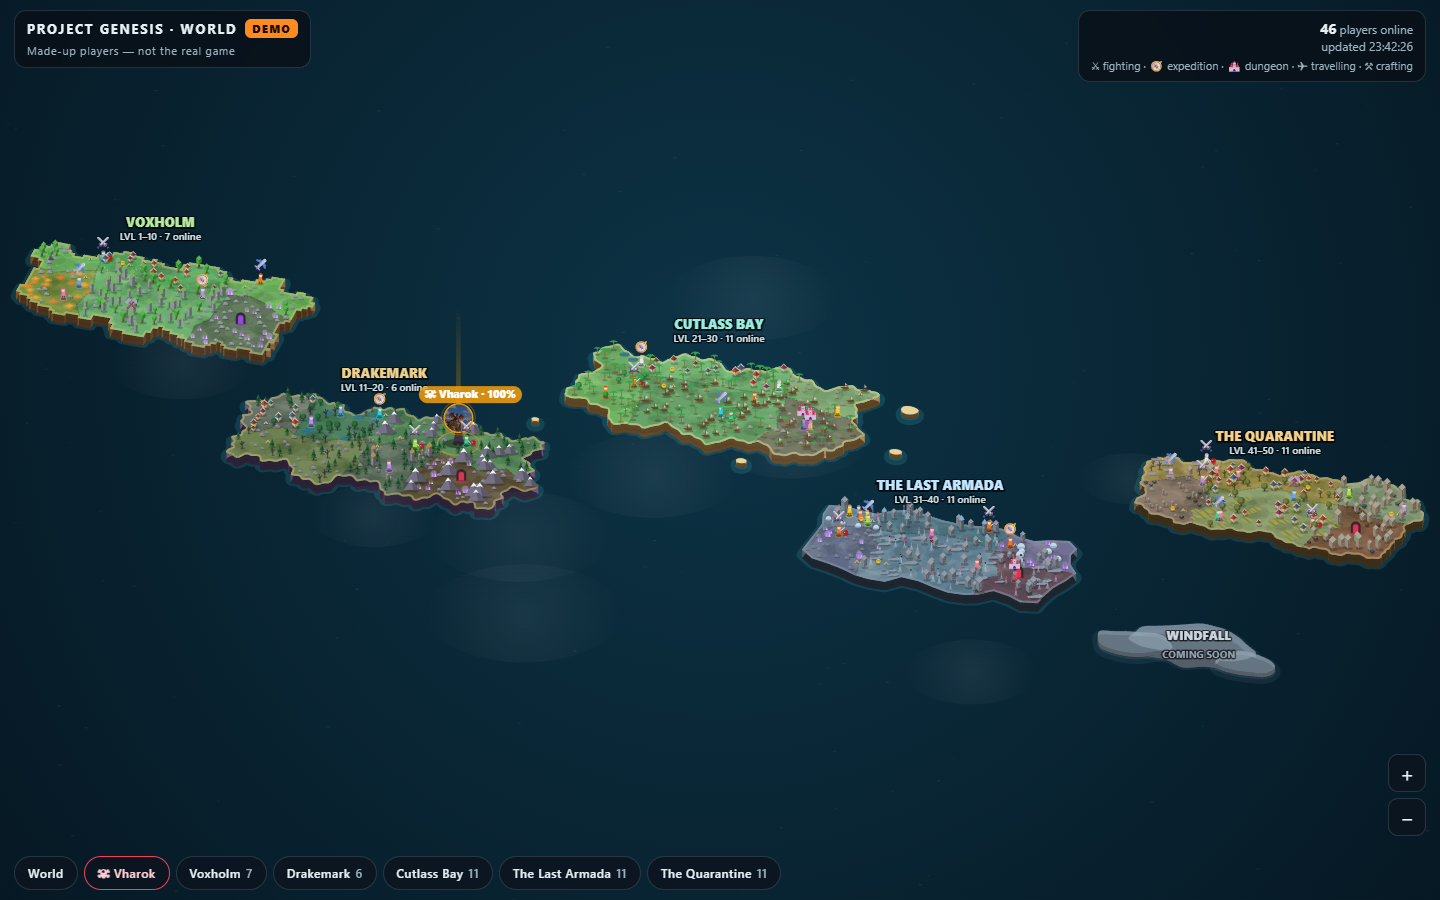
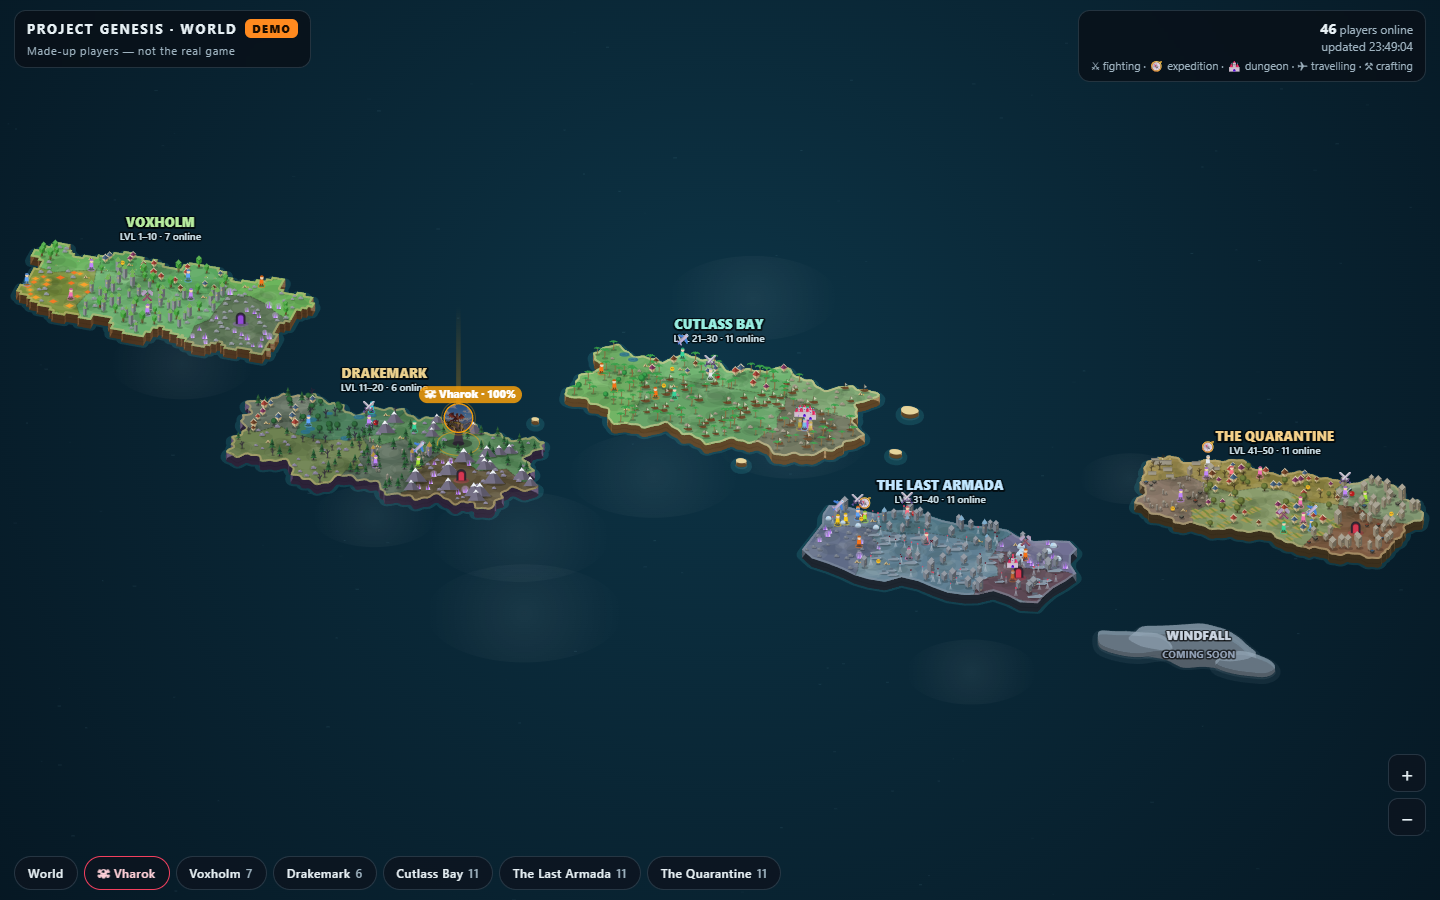
Genesis-varlden: spelarruta med info och Inspect (utrustning) vid tryck, info-falt i kontraktet + DEMO

diff --git a/genesis-world.html b/genesis-world.html
@@ -5,6 +5,7 @@
 <meta name="viewport" content="width=device-width,initial-scale=1,viewport-fit=cover">
 <meta name="robots" content="noindex">
 <title>Genesis World</title>
+<link rel="icon" href="data:,">
 <!--
   GENESIS-VARLDEN  [TILLAGT genesis-world]
   Fristaende, skrivskyddad askadarvy av Project Genesis. Ror aldrig spelet: inga anrop till spelets
@@ -29,7 +30,19 @@
        "region":"cutlassbay", "zon":"Wreck Reef",     // zon = zonnamn eller index 0-5 (5 = regionens dungeon)
        "aktivitet":"idle",                            // idle | strid | expedition | dungeon | resa | yrke
        "mal":{"region":"novacommand","zon":"The Dock Ring"},   // bara vid resa, annars null
-       "framsteg":0.4}                                // valfri, 0-1 hur langt resan kommit
+       "framsteg":0.4,                                // valfri, 0-1 hur langt resan kommit
+       "info":{                                       // valfri: visas i spelarrutan nar man trycker pa figuren
+         "klass":"warden",                            // breaker | prospector | fabricator | warden | runner
+         "paragon":12, "titel":"the Unbroken",
+         "guild":{"namn":"Iron Owls","tag":"OWL"},    // eller null
+         "gs":2256,                                   // gear score (snitt per plats, som i spelet)
+         "gear":[                                     // det spelaren bar, plats = karaktarsbladets nummer
+           {"slot":0, "key":"phase_cap", "rarity":3, "level":44}
+           // slot 0 huvud, 1 brost, 2 ben, 3 handskar, 4 fotter, 5 vapen, 6 hals, 7 balte, 8 ring,
+           // 9 offhand, 11 transport, 12 ring 2, 13 relik, 14 karaktarssten.  rarity 0-5 = Common..Mythic
+           // valfritt per pjas: "namn" och "bild" (assets/...webp). Saknas de slas nyckeln upp i spelets
+           // katalog (genesis-catalog i index.html), som hamtas forsta gangen en ruta med utrustning oppnas.
+         ]}}
     ],
     "helpare": [                                      // valfri: hjalpare ute pa expedition
       {"namn":"Pip", "agare":"Whippen", "region":"drakemark", "zon":"Troll Mire"}
@@ -83,6 +96,26 @@
   #card .rows span{color:var(--ink2)}
   #card .x{position:absolute;top:6px;right:8px;z-index:2;background:rgba(0,0,0,.45);color:#fff;border:0;border-radius:8px;
     width:28px;height:28px;font-size:16px;cursor:pointer}
+  #card.pl{max-height:calc(100vh - 150px);max-height:calc(100dvh - 150px);overflow-y:auto;overscroll-behavior:contain}
+  .pc-title{font-size:11px;color:#ffc542;letter-spacing:.05em;position:relative;z-index:1;margin-top:-40px;margin-bottom:22px;text-shadow:0 1px 3px #000}
+  .pc-meta{display:flex;flex-wrap:wrap;gap:3px 10px;font-size:12px;color:var(--ink2);margin-top:6px}
+  .pc-meta b{color:var(--ink);font-weight:700}
+  .pc-cls{display:inline-block;width:8px;height:8px;border-radius:50%;margin-right:5px;vertical-align:0}
+  .pc-btn{margin-top:10px;width:100%;background:rgba(45,212,191,.12);border:1px solid rgba(45,212,191,.45);color:#bff7ee;border-radius:9px;
+    padding:7px;font-size:12px;font-weight:600;line-height:1;letter-spacing:.06em;cursor:pointer;font-family:inherit}
+  .doll{display:grid;grid-template-columns:auto 1fr auto;gap:6px;margin-top:10px;align-items:start}
+  .dcol{display:flex;flex-direction:column;gap:5px}
+  .dmid{display:flex;flex-direction:column;align-items:center;gap:4px}
+  .dmid .fig{width:100%;max-width:120px;height:178px;object-fit:contain;filter:drop-shadow(0 4px 8px rgba(0,0,0,.6))}
+  .drow{display:flex;justify-content:center;gap:5px;margin-top:6px}
+  .slot{width:44px;height:44px;border-radius:9px;background:#0b131c;border:1.5px solid rgba(255,255,255,.1);position:relative;cursor:pointer;padding:0;
+    display:block;overflow:hidden;font-family:inherit}
+  .slot .sbg{position:absolute;inset:6px;background:center/contain no-repeat;opacity:.22}
+  .slot.has{border-color:var(--rc);box-shadow:inset 0 0 12px -3px var(--rc)}
+  .slot.has img{position:absolute;inset:3px;width:calc(100% - 6px);height:calc(100% - 6px);object-fit:contain}
+  .slot.sel{outline:2px solid #fff;outline-offset:1px}
+  .itemline{min-height:30px;font-size:12px;margin-top:8px;text-align:center;line-height:1.35}
+  .itemline small{display:block;color:var(--ink2);font-size:11px}
   #chips{display:flex;gap:6px;overflow-x:auto;padding:0 14px;scrollbar-width:none;-webkit-overflow-scrolling:touch}
   #chips::-webkit-scrollbar{display:none}
   .chip{flex:0 0 auto;background:var(--chip);color:var(--ink);border:1px solid var(--line);border-radius:999px;
@@ -105,8 +138,12 @@
     #zoom{display:none}
     .wide{display:none}
     #stats div{white-space:nowrap}
-    #card .rows{columns:2;column-gap:12px;font-size:11px}
+    #card:not(.pl) .rows{columns:2;column-gap:12px;font-size:11px}
     #card .hd{height:52px}
+    #card{max-width:calc(100vw - 28px);width:calc(100vw - 28px)}
+    #card.pl{max-height:calc(100vh - 190px);max-height:calc(100dvh - 190px)}
+    .slot{width:40px;height:40px}
+    .dmid .fig{height:150px}
   }
 </style>
 </head>
@@ -475,6 +512,33 @@ function clampCam(){ const m = 200; cam.x = clamp(cam.x, WB.x0 - m, WB.x1 + m); 
 const ents = new Map();      // namn -> spelare
 const helps = new Map();     // hjalpare
 let boss = null, bossImg = {}, data = null, lastSig = '', selected = null, selRegion = null;
+/* Spelarinfo fran kontraktet tvattas till enkla varden; text visas alltid som text (aldrig som HTML). */
+const CLASS_TXT = {breaker: 'Breaker', prospector: 'Prospector', fabricator: 'Fabricator', warden: 'Warden', runner: 'Runner'};
+const CLASS_COL = {breaker: '#38e8ff', prospector: '#ffc542', fabricator: '#38bdf8', warden: '#4cd97b', runner: '#a78bfa'};
+const CLASS_FIG = {breaker: 'cyborg', prospector: 'blockman', fabricator: 'hoodie-man', warden: 'elf', runner: 'monkey-pirate'};   // som CLASS_FIGURE i index.html
+const RAR = [['Common', '#ffffff'], ['Uncommon', '#1eff5a'], ['Rare', '#38a8ff'], ['Epic', '#a45cff'], ['Legendary', '#ffc542'], ['Mythic', '#ff3b3b']];
+const str = (v, n) => (typeof v === 'string' || typeof v === 'number') ? String(v).trim().slice(0, n) : '';
+const okPath = v => (typeof v === 'string' && /^assets\/[A-Za-z0-9_\-\/.]+\.(webp|png)$/.test(v) && v.indexOf('..') < 0) ? v : '';
+function cleanInfo(i){
+  if (!i || typeof i !== 'object') return null;
+  const g = i.guild, gear = Array.isArray(i.gear) ? i.gear : [];
+  return {klass: str(i.klass, 20).toLowerCase(), paragon: Math.max(0, +i.paragon || 0), titel: str(i.titel, 40),
+    guild: g && typeof g === 'object' ? {namn: str(g.namn, 30), tag: str(g.tag, 6)} : (str(g, 30) ? {namn: str(g, 30), tag: ''} : null),
+    gs: (i.gs != null && isFinite(+i.gs)) ? Math.round(+i.gs) : null,
+    gear: gear.slice(0, 16).filter(x => x && isFinite(+x.slot)).map(x => ({slot: +x.slot | 0, key: str(x.key, 60), namn: str(x.namn, 60), bild: okPath(x.bild),
+      rarity: clamp(+x.rarity | 0, 0, 5), level: (x.level != null && isFinite(+x.level)) ? +x.level | 0 : null}))};
+}
+/* Spelets katalog (namn + bild per pjas) ligger i index.html. Den hamtas EN gang, och bara om en pjas saknar namn/bild. */
+let CATALOG = null, catalogP = null;
+function loadCatalog(){
+  if (!catalogP) catalogP = fetch('index.html', {cache: 'force-cache'}).then(r => r.text()).then(t => {
+    const m = t.match(/<script type="application\/json" id="genesis-catalog">([\s\S]*?)<\/script>/); CATALOG = m ? JSON.parse(m[1]) : {items: {}};
+  }).catch(() => { CATALOG = {items: {}}; });
+  return catalogP; }
+function itemLook(g){
+  const D = CATALOG && CATALOG.items && CATALOG.items[g.key];
+  const bild = g.bild || (D ? (Array.isArray(D.pr) ? okPath(D.pr[g.rarity] || D.pr[0]) : okPath(D.a)) : '');
+  return {namn: g.namn || (D && D.n) || g.key || '?', bild}; }
 const PAL = ['#f97316', '#22d3ee', '#a3e635', '#f472b6', '#facc15', '#60a5fa', '#c084fc', '#34d399', '#fb7185', '#e2e8f0'];
 function zoneOf(rid, zon){ const R = REG_BY[rid]; if (!R || R.locked) return null;
   if (typeof zon === 'number' && R.zones[zon]) return R.zones[zon];
@@ -500,7 +564,7 @@ function applyPlayer(e, s){
   let z = zoneOf(s.region, s.zon); if (!z) z = R.zones[hash(s.namn) % 5];
   const akt = ['idle', 'strid', 'expedition', 'dungeon', 'resa', 'yrke'].indexOf(s.aktivitet) >= 0 ? s.aktivitet : 'idle';
   const malZ = (akt === 'resa' && s.mal) ? zoneOf(s.mal.region, s.mal.zon) || (REG_BY[s.mal.region] && !REG_BY[s.mal.region].locked ? REG_BY[s.mal.region].zones[0] : null) : null;
-  e.niva = +s.niva || 0; e.namn = String(s.namn).slice(0, 24);
+  e.niva = +s.niva || 0; e.namn = String(s.namn).slice(0, 24); e.info = cleanInfo(s.info);
   const prevZ = e.z, prevAkt = e.akt, prevMal = e.malZ;
   e.R = R; e.akt = akt; e.malZ = malZ; e.framsteg = (typeof s.framsteg === 'number') ? clamp(s.framsteg, 0, 1) : null;
   if (!prevZ){ e.z = z; const p = spotFor(e); e.x = p.x; e.y = p.y; e.tx = p.x; e.ty = p.y; e.wait = Math.random() * 3; return true; }
@@ -803,16 +867,69 @@ function renderChips(){
   LAND.forEach(R => add(R.namn, counts[R.id] || 0, () => { selected = null; selRegion = R.id; renderCard(); focusRegion(R); }));
 }
 const AKT_TXT = {idle: 'Exploring', strid: 'Fighting', expedition: 'On an expedition', dungeon: 'In a dungeon', resa: 'Travelling', yrke: 'Crafting'};
+/* SPELARRUTAN: namn, niva, klass, guild, gear score, vad spelaren gor - och Inspect (utrustningen som i spelets profilkort).
+   Bara lasning: knapparna har oppnar och stanger rutan, inget annat. */
+let cardSig = '', inspOpen = innerWidth >= 640, inspSlot = null;
+const DOLL = {left: [[0, 'head', 'Head'], [6, 'neck', 'Neck'], [1, 'chest', 'Chest'], [2, 'legs', 'Legs'], [4, 'feet', 'Boots']],
+  right: [[3, 'hands', 'Hands'], [7, 'waist', 'Waist'], [8, 'ring', 'Ring'], [12, 'ring', 'Ring'], [13, 'relic', 'Relic']],
+  under: [[5, 'weapon', 'Weapon'], [11, 'transport', 'Transport'], [9, 'offhand', 'Off-hand']]};   // samma docka som INSP_COLS i index.html
+function el(tag, cls, txt){ const d = document.createElement(tag); if (cls) d.className = cls; if (txt != null) d.textContent = txt; return d; }
+function renderPlayerCard(e){
+  const card = $('card'), hd = $('cardHd'), T = $('cardT'), S = $('cardS'), R0 = $('cardR'), inf = e.info;
+  const doing = e.fly && e.fly.hint !== 'resa' ? 'Travelling' : AKT_TXT[e.akt];
+  const sig = JSON.stringify([selected, e.niva, inf, doing, e.z.namn, e.malZ && e.malZ.namn, inspOpen, inspSlot, !!CATALOG]);
+  if (sig === cardSig && card.classList.contains('on')) return; cardSig = sig;
+  card.className = 'on pl'; hd.style.backgroundImage = 'url(assets/bg/region/' + e.R.id + '.webp)';
+  T.textContent = e.namn; S.textContent = ''; R0.textContent = '';
+  const old = card.querySelector('.pc-title'); if (old) old.remove();
+  if (inf && inf.titel){ const t = el('div', 'pc-title', inf.titel); T.parentNode.insertBefore(t, T); }
+  const meta = el('div', 'pc-meta'); S.appendChild(meta);
+  const add = (lab, val, dot) => { const sp = el('span'); if (dot){ const i = el('i', 'pc-cls'); i.style.background = dot; sp.appendChild(i); }
+    if (lab) sp.appendChild(document.createTextNode(lab + ' ')); sp.appendChild(el('b', null, val)); meta.appendChild(sp); };
+  add('Level', String(e.niva || '?')); if (inf && inf.paragon) add('Paragon', String(inf.paragon));
+  if (inf && inf.klass) add('', CLASS_TXT[inf.klass] || inf.klass, CLASS_COL[inf.klass] || '#9fb3c0');
+  if (inf && inf.gs != null) add('Gear score', inf.gs.toLocaleString('en-US'));
+  if (inf && inf.guild && inf.guild.namn) add('⚑', inf.guild.namn + (inf.guild.tag ? ' [' + inf.guild.tag + ']' : ''));
+  const row = (a, b) => { const d = el('div'); d.appendChild(el('span', null, a + ' ')); d.appendChild(document.createTextNode(b)); R0.appendChild(d); };
+  row('Doing:', doing); row('Where:', e.R.namn + ' · ' + e.z.namn);
+  if (e.akt === 'resa' && e.malZ) row('Heading to:', e.malZ.R.namn + ' · ' + e.malZ.namn);
+  if (!inf || !inf.gear) return;
+  const btn = el('button', 'pc-btn', inspOpen ? 'Hide gear ▴' : 'Inspect gear ▾'); R0.appendChild(btn);
+  btn.onclick = () => { inspOpen = !inspOpen; inspSlot = null; renderCard(); };
+  if (!inspOpen) return;
+  if (!CATALOG && inf.gear.some(g => !g.bild || !g.namn)) loadCatalog().then(() => { cardSig = ''; renderCard(); });
+  const bar = {}; inf.gear.forEach(g => { bar[g.slot] = g; });
+  const slotEl = (sl, art, namn) => { const b = el('button', 'slot'); b.setAttribute('aria-label', namn); const g = bar[sl];
+    const bg = el('i', 'sbg'); bg.style.backgroundImage = 'url(assets/slots/slot_' + art + '.webp)';
+    if (inspSlot === sl) b.classList.add('sel');
+    if (!g){ b.appendChild(bg); b.onclick = () => { inspSlot = inspSlot === sl ? null : sl; renderCard(); }; return b; }
+    const L = itemLook(g); b.classList.add('has'); b.style.setProperty('--rc', RAR[g.rarity][1]);
+    if (L.bild){ const im = el('img'); im.src = L.bild; im.alt = ''; im.draggable = false; im.onerror = () => { im.remove(); b.appendChild(bg); }; b.appendChild(im); } else b.appendChild(bg);
+    b.onclick = () => { inspSlot = inspSlot === sl ? null : sl; renderCard(); }; return b; };
+  const doll = el('div', 'doll'), col = list => { const c = el('div', 'dcol'); list.forEach(x => c.appendChild(slotEl(x[0], x[1], x[2]))); return c; };
+  doll.appendChild(col(DOLL.left));
+  const mid = el('div', 'dmid'); mid.appendChild(slotEl(14, 'gem', 'Character Gem'));
+  const fig = CLASS_FIG[inf.klass];
+  if (fig){ let n = 0; [[0, 16], [1, 8], [2, 4], [3, 2], [4, 1]].forEach(b => { if (bar[b[0]]) n |= b[1]; });   // som FIGURE_BITS i index.html
+    const im = el('img', 'fig'); im.alt = ''; im.draggable = false; im.src = 'assets/character/' + fig + '/' + String(n).padStart(2, '0') + '.webp'; im.onerror = () => im.remove(); mid.appendChild(im); }
+  doll.appendChild(mid); doll.appendChild(col(DOLL.right)); R0.appendChild(doll);
+  const under = el('div', 'drow'); DOLL.under.forEach(x => under.appendChild(slotEl(x[0], x[1], x[2]))); R0.appendChild(under);
+  const line = el('div', 'itemline');
+  const all = DOLL.left.concat(DOLL.right, DOLL.under, [[14, 'gem', 'Character Gem']]), pick = all.find(x => x[0] === inspSlot);
+  if (pick){ const g = bar[pick[0]];
+    if (g){ const L = itemLook(g), b = el('b', null, L.namn); b.style.color = RAR[g.rarity][1]; line.appendChild(b);
+      line.appendChild(el('small', null, pick[2] + ' · ' + RAR[g.rarity][0] + (g.level != null ? ' · ilvl ' + g.level : ''))); }
+    else line.appendChild(el('small', null, pick[2] + ' · empty')); }
+  else line.appendChild(el('small', null, inf.gear.length ? 'Tap a piece to see what it is' : 'Wearing nothing'));
+  R0.appendChild(line);
+}
 function renderCard(){
   const card = $('card'), hd = $('cardHd'), T = $('cardT'), S = $('cardS'), R0 = $('cardR');
   const e = selected && ents.get(selected);
-  if (e){ card.className = 'on'; hd.style.backgroundImage = 'url(assets/bg/region/' + e.R.id + '.webp)';
-    T.textContent = e.namn; S.textContent = 'Level ' + (e.niva || '?') + ' · ' + (e.fly && e.fly.hint !== 'resa' ? 'Travelling' : AKT_TXT[e.akt]);
-    R0.textContent = ''; const row = (a, b) => { const d = document.createElement('div'); const s = document.createElement('span'); s.textContent = a + ' '; d.appendChild(s); d.appendChild(document.createTextNode(b)); R0.appendChild(d); };
-    row('Where:', e.R.namn + ' · ' + e.z.namn);
-    if (e.akt === 'resa' && e.malZ) row('Heading to:', e.malZ.R.namn + ' · ' + e.malZ.namn);
-    return; }
+  if (e){ renderPlayerCard(e); return; }
+  card.classList.remove('pl'); cardSig = '';
   const R = selRegion && REG_BY[selRegion];
+  { const old = card.querySelector('.pc-title'); if (old) old.remove(); }
   if (R && !R.locked){ card.className = 'on'; hd.style.backgroundImage = 'url(assets/bg/region/' + R.id + '.webp)';
     T.textContent = R.namn; const zc = {}; let n = 0; ents.forEach(x => { if (x.R === R && !x.gone){ zc[x.z.i] = (zc[x.z.i] || 0) + 1; n++; } });
     S.textContent = 'Level ' + R.band + ' · ' + n + ' online'; R0.textContent = '';
@@ -844,7 +961,7 @@ function tap(sx, sy){
   const now = performance.now(), dbl = now - lastTap < 320; lastTap = now;
   let best = null, bd = 22; const k = figK(cam.z);
   ents.forEach((e, key) => { const q = toScreen(P(e.x, e.y, (e.h || 0) + 8 * k)); const d = Math.hypot(q.x - sx, q.y - sy); if (d < bd){ bd = d; best = key; } });
-  if (best){ selected = best; selRegion = null; renderCard(); return; }
+  if (best){ if (selected !== best) inspSlot = null; selected = best; selRegion = null; renderCard(); return; }
   if (boss){ const q = toScreen(P(boss.x, boss.y, 60)); if (Math.hypot(q.x - sx, q.y - sy) < Math.max(30, 70 * cam.z)){ const p = P(boss.x, boss.y, 0); flyTo({x: p.x, y: p.y - 60, z: Math.max(cam.z, 1.6)}); return; } }
   const R = regionAt(sx, sy);
   selected = null; selRegion = R ? R.id : null; renderCard();
@@ -874,6 +991,20 @@ const DEMO = (() => {
   const pl = [...names].map((n, i) => { const ri = Math.min(4, Math.floor(Math.pow(r(), 1.3) * 5)), R = REG_BY[regs[ri]];
     return {namn: n, niva: ri * 10 + 1 + Math.floor(r() * 10), region: R.id, zon: R.zoner[Math.floor(r() * 5)], aktivitet: 'idle', mal: null}; });
   const ACT = ['idle', 'idle', 'idle', 'strid', 'strid', 'yrke', 'expedition', 'dungeon', 'resa'];
+  /* pahittad spelarinfo: riktiga pjasnycklar ur spelets katalog sa bilderna syns, men namnen ar pahittade */
+  const DK = {0: ['runners_cap', 'phase_cap', 'sig_lamphelm', 'sigv_bulkhelm'], 1: ['runners_vest', 'phase_vest', 'sig_rockplate', 'sigv_plating'],
+    2: ['runners_trousers', 'phase_trousers', 'sig_seamguards', 'sigv_hullwalkers'], 3: ['runners_gloves', 'phase_gloves', 'sig_grippers', 'sigv_breachers'],
+    4: ['runners_boots', 'phase_boots', 'sig_tunnelstompers', 'sigv_maglocks'], 5: ['runners_dagger', 'voidsteel_blade', 'sigw_talon', 'sigv_blade'],
+    6: ['salvage_neck', 'genesis_neck', 'sigu_charm', 'neck_runners_sleeve'], 7: ['salvage_waist', 'genesis_waist', 'sigv_belt', 'waist_runners_belt'],
+    8: ['salvage_ring', 'voidsteel_band', 'ring_copper_band', 'sigu_band'], 9: ['salvage_offhand', 'genesis_offhand', 'sigv_coil', 'offhand_arc_torch'],
+    11: ['salvage_transport', 'genesis_transport', 'sigv_pod', 'transport_sky_lance'], 12: ['salvage_ring', 'voidsteel_band', 'ring_copper_band', 'sigu_band'],
+    13: ['salvage_relic', 'sigu_colors', 'relic_steel_core', 'relic_orb_of_the_ancients']};
+  const KL = Object.keys(CLASS_TXT), TIT = ['', '', 'the Unbroken', 'Dungeon Delver', 'Boss Slayer', 'Wanderer', 'Master Crafter'];
+  const GU = [null, {namn: 'Iron Owls', tag: 'OWL'}, {namn: 'Night Shift', tag: 'NS'}, {namn: 'Cubehold', tag: 'CUBE'}, {namn: 'Salt & Steel', tag: 'S&S'}];
+  pl.forEach(p => { const rar = () => clamp(Math.floor(p.niva / 10 + r() * 2 - .5), 0, 5), gear = [];
+    Object.keys(DK).forEach(sl => { if (r() < (p.niva < 10 ? .45 : .9)){ const l = DK[sl]; gear.push({slot: +sl, key: l[Math.floor(r() * l.length)], rarity: rar(), level: Math.max(1, p.niva - Math.floor(r() * 4))}); } });
+    p.info = {klass: KL[Math.floor(r() * KL.length)], paragon: p.niva >= 48 ? Math.floor(r() * 40) : 0, titel: TIT[Math.floor(r() * TIT.length)],
+      guild: GU[Math.floor(r() * GU.length)], gs: Math.round(p.niva * 42 + r() * 300), gear}; });
   pl.forEach(p => { p.aktivitet = ACT[Math.floor(r() * ACT.length)]; if (p.aktivitet === 'dungeon') p.zon = REG_BY[p.region].zoner[5]; if (p.aktivitet === 'resa') p.aktivitet = 'idle'; });
   const helpare = ['Pip', 'Bolt', 'Moss', 'Tink', 'Rook', 'Fizz', 'Dot', 'Nib'].map((h, i) => { const o = pl[i * 5]; return {namn: h, agare: o.namn, region: o.region, zon: REG_BY[o.region].zoner[(i * 3) % 5]}; });
   const BOSSES = [['Vharok', 'vharok', 'drakemark', 'The Spine'], ['Gravmaw', 'gravmaw', 'voxholm', 'The Mineshaft'], ['Leviathan', 'leviathan', 'cutlassbay', 'Wreck Reef'],
